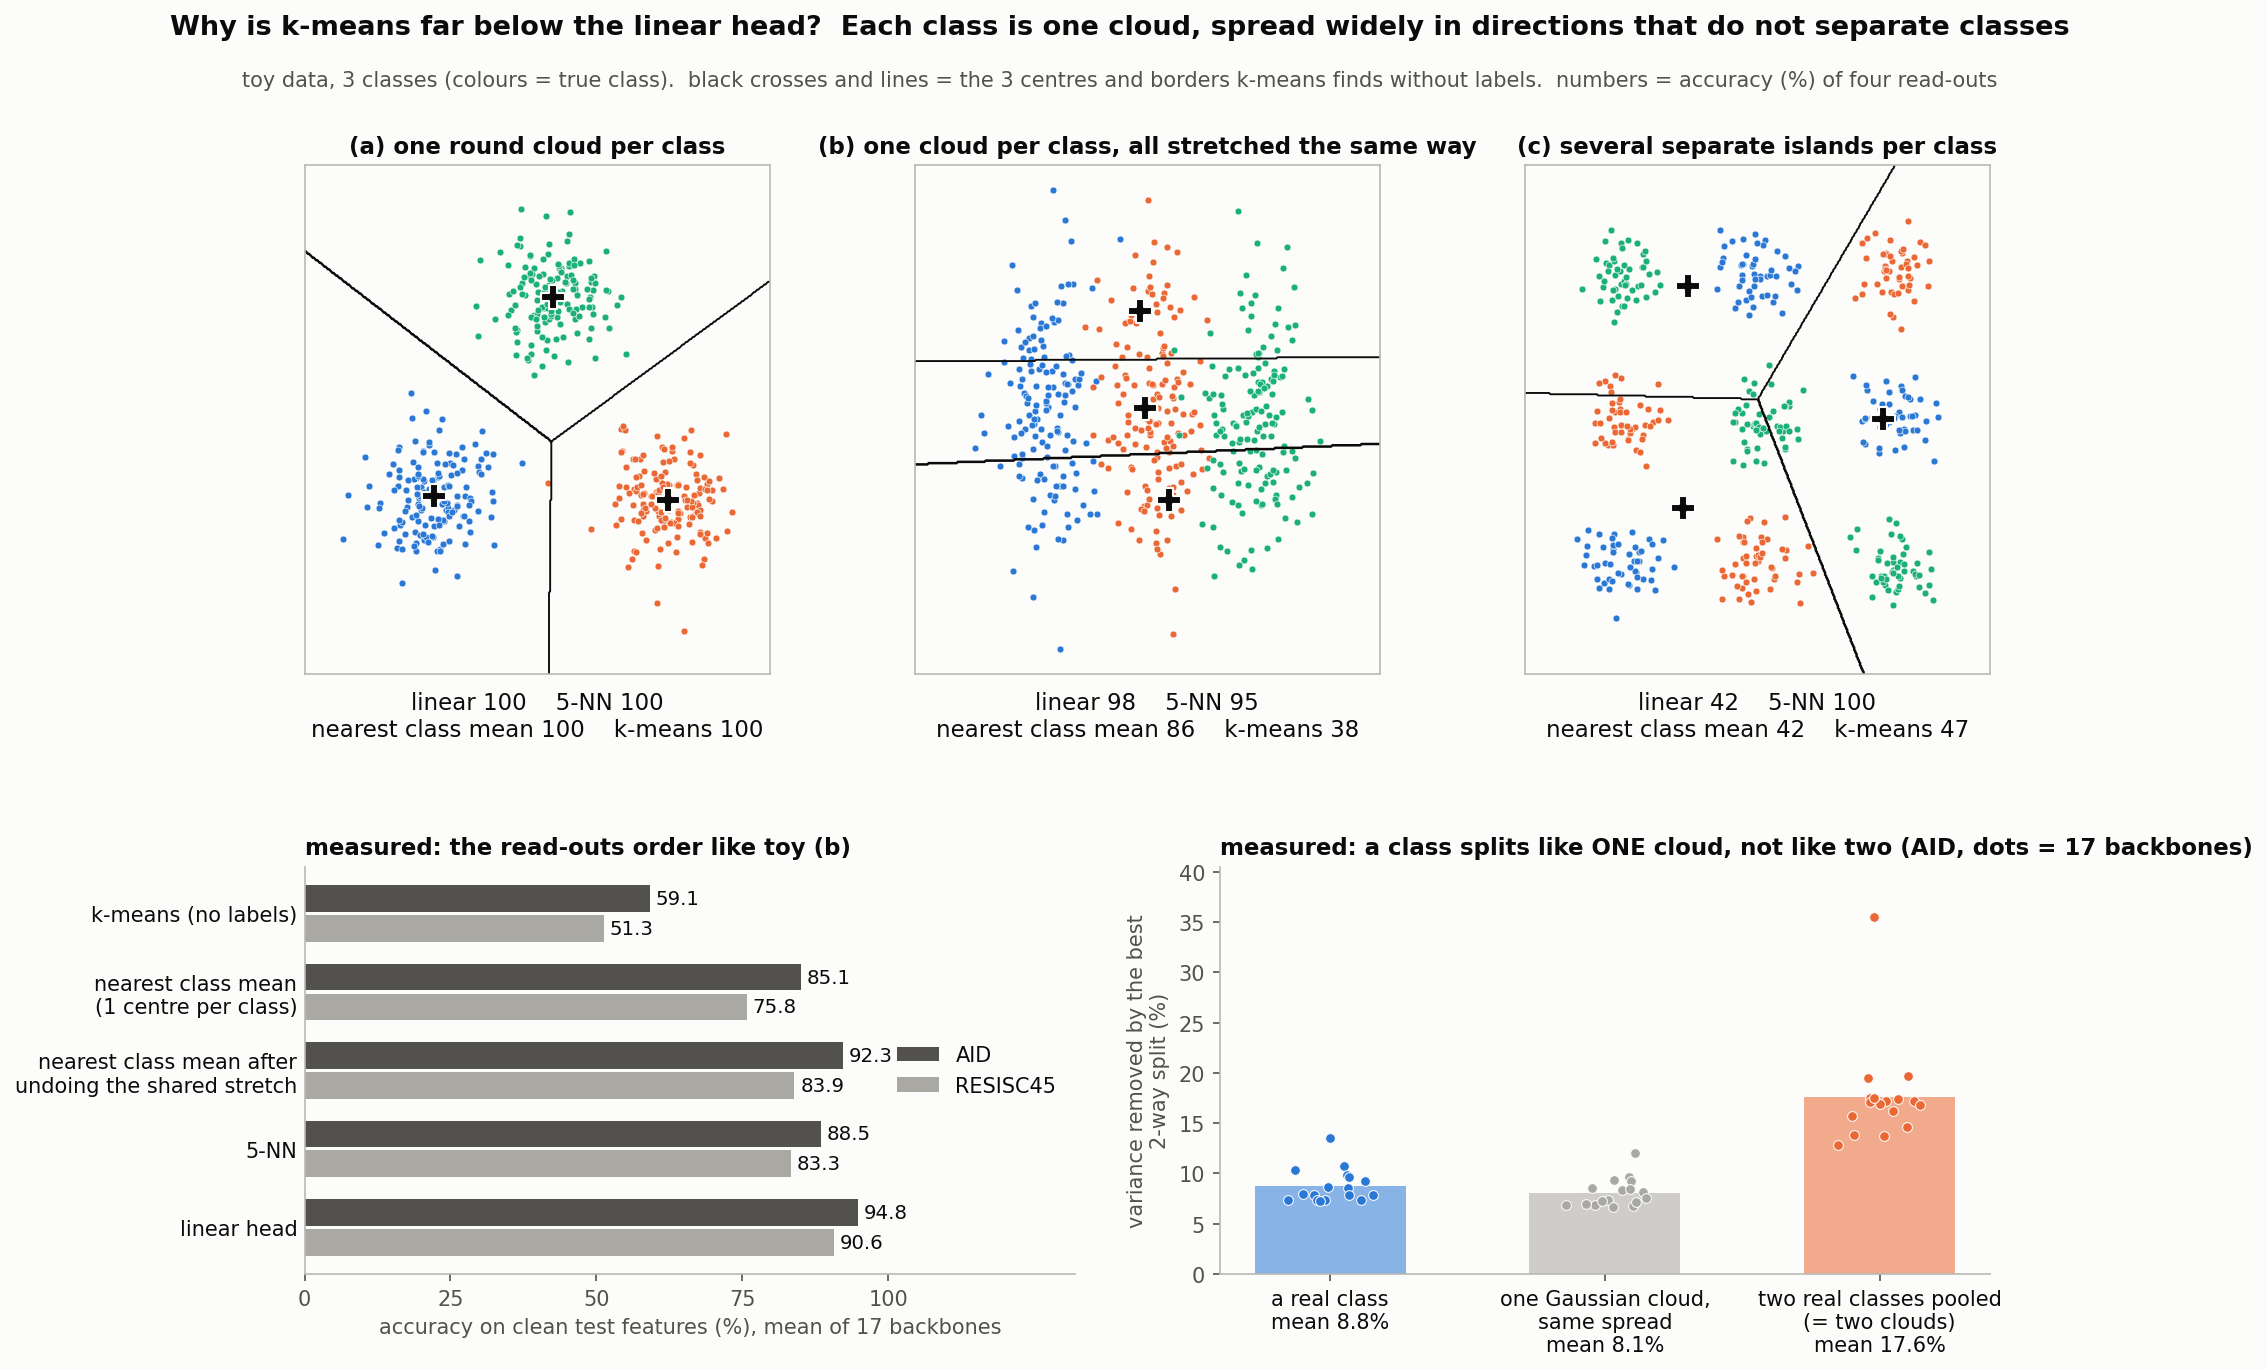
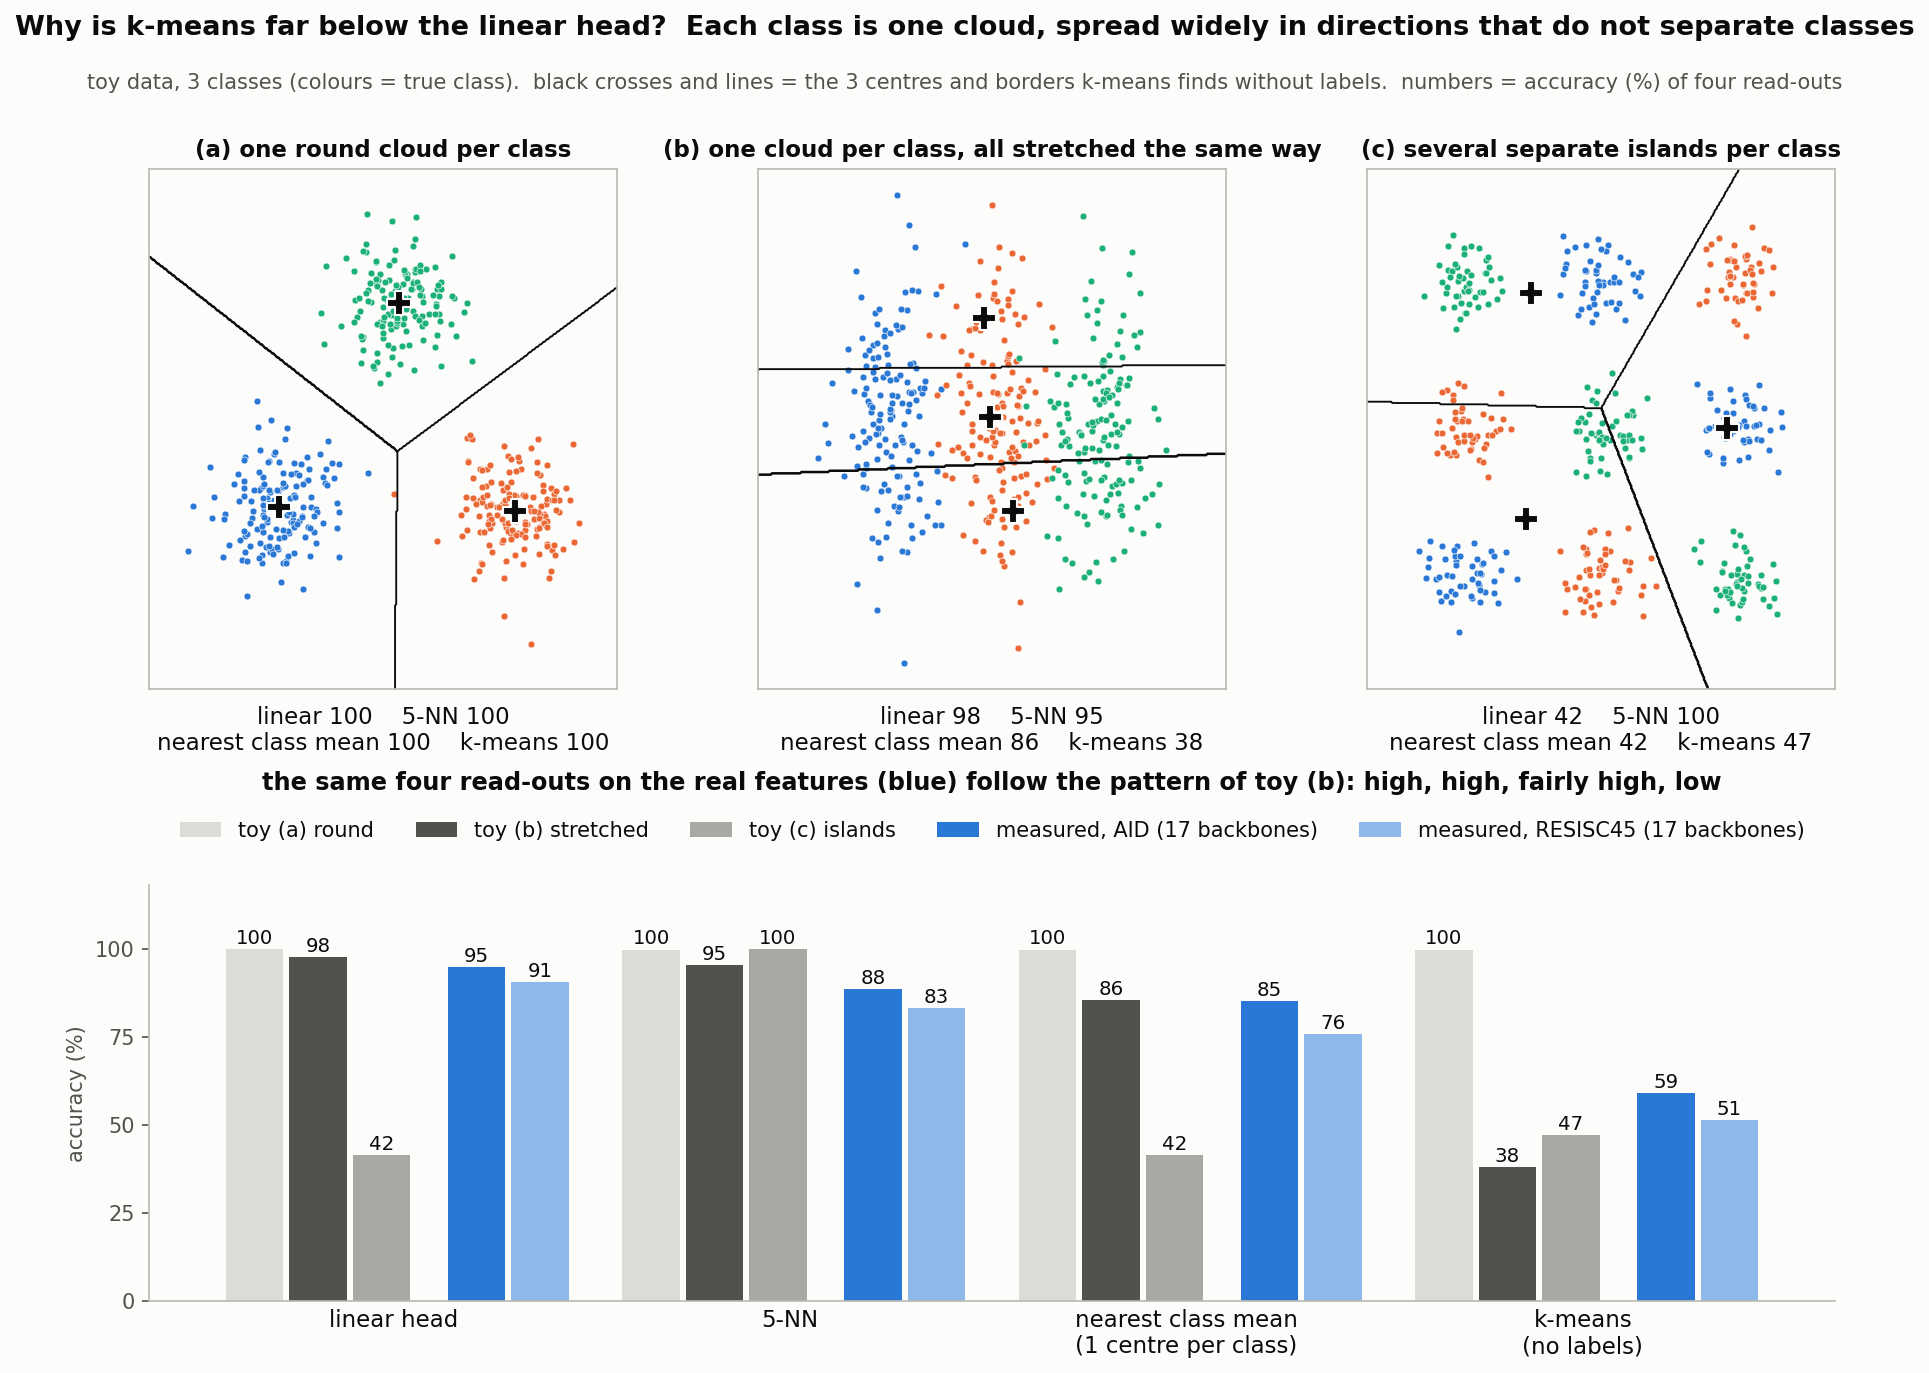
Class-shape figure: one comparison chart on the slide figure, two tests moved to a backup figure

diff --git a/repro/scripts/analysis/plot_feature_dist.py b/repro/scripts/analysis/plot_feature_dist.py
@@ -153,7 +153,8 @@ def _toy_km(x, k, rng, n=10):
 
 
 def class_shape():
-    """Toy pictures of three class shapes with the four read-outs, and the measured numbers (cluster_shape.py, shape.json)."""
+    """fig3: toy pictures of three class shapes with four read-outs, and the same four read-outs measured on the real features.
+    fig3b (backup): two further measurements from cluster_shape.py (shape.json)."""
     import json
     from cluster_cot import OUT as EXP
     R = json.load(open(EXP / "shape.json"))
@@ -164,16 +165,17 @@ def class_shape():
     m = np.array([[-3.0, -1.5], [3.0, -1.5], [0.0, 3.2]])
     toys.append(("(a) one round cloud per class", np.concatenate([mu + rng.normal(size=(n, 2)) * 0.8 for mu in m])))
     m = np.array([[-1.7, 0.0], [0.0, 0.0], [1.7, 0.0]])
-    toys.append(("(b) one cloud per class, all stretched the same way",
-                 np.concatenate([mu + rng.normal(size=(n, 2)) * [0.42, 3.0] for mu in m])))
+    toys.append(("(b) one cloud per class, all stretched the same way", np.concatenate([mu + rng.normal(size=(n, 2)) * [0.42, 3.0] for mu in m])))
     isl = [[(i, j) for i in range(3) for j in range(3) if (i + j) % 3 == k] for k in range(3)]
     toys.append(("(c) several separate islands per class",
                  np.concatenate([np.concatenate([np.array(q) * 2.6 - 2.6 + rng.normal(size=(n // 3, 2)) * 0.38 for q in isl[k]]) for k in range(3)])))
     y = np.repeat(np.arange(3), n)
-    fig = plt.figure(figsize=(14.5, 9.6))
-    gs = fig.add_gridspec(2, 6, height_ratios=[1.25, 1], hspace=0.42, wspace=0.9)
+    READ = (("linear head", "lin"), ("5-NN", "knn"), ("nearest class mean\n(1 centre per class)", "ncm"), ("k-means\n(no labels)", "km"))
+    fig = plt.figure(figsize=(14.5, 9.8))
+    gs = fig.add_gridspec(2, 3, height_ratios=[1.25, 1], hspace=0.42, wspace=0.3)
+    toy_acc = []
     for c, (title, x) in enumerate(toys):
-        ax = fig.add_subplot(gs[0, 2 * c:2 * c + 2])
+        ax = fig.add_subplot(gs[0, c])
         lab, cen, _ = _toy_km(x, 3, rng)
         cont = np.array([[((lab == a) & (y == b)).sum() for b in range(3)] for a in range(3)])
         i, j = lsa(-cont)
@@ -189,6 +191,7 @@ def class_shape():
         d = ((x[:, None] - x[None]) ** 2).sum(-1); np.fill_diagonal(d, np.inf)
         nb = y[np.argsort(d, 1)[:, :5]]
         knn = 100 * (np.array([np.bincount(r, minlength=3).argmax() for r in nb]) == y).mean()
+        toy_acc.append({"lin": lin, "knn": knn, "ncm": ncm, "km": km})
         lo, hi = x.min(0) - 1.0, x.max(0) + 1.0
         gx, gy = np.meshgrid(np.linspace(lo[0], hi[0], 400), np.linspace(lo[1], hi[1], 400))
         G = np.c_[gx.ravel(), gy.ravel()]
@@ -202,41 +205,58 @@ def class_shape():
         ax.set_xlabel(f"linear {lin:.0f}    5-NN {knn:.0f}\nnearest class mean {ncm:.0f}    k-means {km:.0f}", fontsize=11, color=INK, labelpad=8)
     fig.text(0.5, 0.935, "toy data, 3 classes (colours = true class).  black crosses and lines = the 3 centres and borders k-means finds without labels.  "
              "numbers = accuracy (%) of four read-outs", ha="center", fontsize=10, color=INK2)
-    # measured numbers
-    rows = (("k-means (no labels)", "km"), ("nearest class mean\n(1 centre per class)", "ncm"),
-            ("nearest class mean after\nundoing the shared stretch", "ncm_white"), ("5-NN", "knn"), ("linear head", "lin"))
-    ax = fig.add_subplot(gs[1, 0:3])
-    DS = (("aid", "AID", "#52514e"), ("r45", "RESISC45", "#a9a8a2"))
-    yy = np.arange(len(rows))[::-1]
-    for di, (ds, name, col) in enumerate(DS):
-        v = [np.mean([r[k] for key, r in R.items() if key.endswith("_" + ds)]) for _, k in rows]
-        ax.barh(yy + (0.19 if di == 0 else -0.19), v, height=0.34, color=col, label=name)
-        for a, b in zip(yy, v):
-            ax.text(b + 1, a + (0.19 if di == 0 else -0.19), f"{b:.1f}", va="center", fontsize=9.5, color=INK)
-    ax.set_yticks(yy); ax.set_yticklabels([r[0] for r in rows], fontsize=10, color=INK); ax.set_xlim(0, 132); ax.set_xticks([0, 25, 50, 75, 100])
-    ax.spines[["top", "right"]].set_visible(False); ax.tick_params(axis="y", length=0)
-    ax.set_xlabel("accuracy on clean test features (%), mean of 17 backbones")
-    ax.set_title("measured: the read-outs order like toy (b)", fontsize=11, color=INK, fontweight="bold", loc="left")
-    ax.legend(loc="center right", fontsize=10)
-    ax = fig.add_subplot(gs[1, 3:6])
-    bars = (("a real class", "split2", "#2a78d6"), ("one Gaussian cloud,\nsame spread", "null", "#a9a8a2"),
-            ("two real classes pooled\n(= two clouds)", "pair2", "#eb6834"))
-    keys = [k for k in R if k.endswith("_aid")]
-    means = []
-    for bi, (name, k, col) in enumerate(bars):
-        v = np.array([100 * R[key][k] for key in keys])
-        ax.bar(bi, v.mean(), width=0.55, color=col, alpha=0.55)
-        ax.scatter(bi + rng.uniform(-0.16, 0.16, len(v)), v, s=22, color=col, edgecolors=SURF, linewidths=0.5, zorder=3)
-        means.append(v.mean())
-    ax.set_xticks(range(3)); ax.set_xticklabels([f"{b[0]}\nmean {m:.1f}%" for b, m in zip(bars, means)], fontsize=10, color=INK)
-    ax.set_ylabel("variance removed by the best\n2-way split (%)"); ax.spines[["top", "right"]].set_visible(False)
-    ax.set_ylim(0, max(100 * R[k]["pair2"] for k in keys) + 5)
-    ax.set_title("measured: a class splits like ONE cloud, not like two (AID, dots = 17 backbones)", fontsize=11, color=INK, fontweight="bold", loc="left")
+    # the same four read-outs: toys vs measured
+    ax = fig.add_subplot(gs[1, :])
+    meas = {ds: {k: np.mean([r[k] for key, r in R.items() if key.endswith("_" + ds)]) for _, k in READ} for ds in ("aid", "r45")}
+    series = [("toy (a) round", toy_acc[0], "#dcdbd6", INK2), ("toy (b) stretched", toy_acc[1], "#52514e", SURF), ("toy (c) islands", toy_acc[2], "#a9a8a2", INK),
+              ("measured, AID (17 backbones)", meas["aid"], "#2a78d6", SURF), ("measured, RESISC45 (17 backbones)", meas["r45"], "#8fb8ea", INK)]
+    w = 0.16
+    for si, (name, v, col, _) in enumerate(series):
+        xs = np.arange(len(READ)) + (si - 2) * w + (0.05 if si >= 3 else -0.03)
+        ax.bar(xs, [v[k] for _, k in READ], width=w - 0.015, color=col, label=name)
+        for a, (_, k) in zip(xs, READ):
+            ax.text(a, v[k] + 1.5, f"{v[k]:.0f}", ha="center", fontsize=9.5, color=INK)
+    ax.set_xticks(np.arange(len(READ))); ax.set_xticklabels([r[0] for r in READ], fontsize=11, color=INK)
+    ax.set_ylim(0, 118); ax.set_yticks([0, 25, 50, 75, 100]); ax.set_ylabel("accuracy (%)")
+    ax.spines[["top", "right"]].set_visible(False); ax.tick_params(axis="x", length=0)
+    ax.legend(loc="upper center", ncol=5, bbox_to_anchor=(0.5, 1.2), fontsize=10)
+    ax.set_title("the same four read-outs on the real features (blue) follow the pattern of toy (b): high, high, fairly high, low", fontsize=11.5,
+                 color=INK, fontweight="bold", y=1.2)
     fig.suptitle("Why is k-means far below the linear head?  Each class is one cloud, spread widely in directions that do not separate classes",
                  fontsize=13, fontweight="bold", y=0.985)
     fig.savefig(OUT / "fig3_class_shape.png", dpi=150, bbox_inches="tight")
     plt.close(fig)
     print("saved", OUT / "fig3_class_shape.png")
+
+    # backup figure: two more measurements
+    fig, (ax, ax2) = plt.subplots(1, 2, figsize=(14.5, 4.6), gridspec_kw={"wspace": 0.3})
+    rows = (("nearest class mean, as is", "ncm"), ("nearest class mean after squashing\nthe spread the classes share", "ncm_white"), ("linear head (reference)", "lin"))
+    yy = np.arange(len(rows))[::-1]
+    for di, (ds, name, col) in enumerate((("aid", "AID", "#52514e"), ("r45", "RESISC45", "#a9a8a2"))):
+        v = [np.mean([r[k] for key, r in R.items() if key.endswith("_" + ds)]) for _, k in rows]
+        ax.barh(yy + (0.19 if di == 0 else -0.19), v, height=0.34, color=col, label=name)
+        for a, b in zip(yy, v):
+            ax.text(b + 1, a + (0.19 if di == 0 else -0.19), f"{b:.1f}", va="center", fontsize=10, color=INK)
+    ax.set_yticks(yy); ax.set_yticklabels([r[0] for r in rows], fontsize=10.5, color=INK); ax.set_xlim(0, 125); ax.set_xticks([0, 25, 50, 75, 100])
+    ax.spines[["top", "right"]].set_visible(False); ax.tick_params(axis="y", length=0); ax.legend(loc="center right", fontsize=10)
+    ax.set_xlabel("accuracy on clean test features (%), mean of 17 backbones")
+    ax.set_title("test 1: squash the shared spread, then one centre per class is almost enough", fontsize=11, color=INK, fontweight="bold", loc="left")
+    bars = (("one real class", "split2", "#2a78d6"), ("reference: ONE cloud\n(Gaussian, same spread)", "null", "#a9a8a2"),
+            ("reference: TWO clouds\n(two real classes pooled)", "pair2", "#eb6834"))
+    keys = [k for k in R if k.endswith("_aid")]
+    means = []
+    for bi, (name, k, col) in enumerate(bars):
+        v = np.array([100 * R[key][k] for key in keys])
+        ax2.bar(bi, v.mean(), width=0.55, color=col, alpha=0.55)
+        ax2.scatter(bi + rng.uniform(-0.16, 0.16, len(v)), v, s=22, color=col, edgecolors=SURF, linewidths=0.5, zorder=3)
+        means.append(v.mean())
+    ax2.set_xticks(range(3)); ax2.set_xticklabels([f"{b[0]}\nmean {m:.1f}%" for b, m in zip(bars, means)], fontsize=10, color=INK)
+    ax2.set_ylabel("how much tighter the points get when\nthe group is cut in two (% of its variance)"); ax2.spines[["top", "right"]].set_visible(False)
+    ax2.set_ylim(0, max(100 * R[k]["pair2"] for k in keys) + 5)
+    ax2.set_title("test 2: cut one class in two. It behaves like ONE cloud (AID, dots = 17 backbones)", fontsize=11, color=INK, fontweight="bold", loc="left")
+    fig.savefig(OUT / "fig3b_class_shape_tests.png", dpi=150, bbox_inches="tight")
+    plt.close(fig)
+    print("saved", OUT / "fig3b_class_shape_tests.png")
 
 
 def legend(fig):

diff --git a/repro/docs/figs/2026-11-24_feature_dist/README.md b/repro/docs/figs/2026-11-24_feature_dist/README.md
@@ -79,21 +79,38 @@ PPT에 넣을 한글 이름 (서버에 한글 글꼴이 없어 그림 안은 영
   선형 head는 그 방향을 무시하고 클래스를 가르는 방향만 본다.
 - (c)라면 선형 head와 클래스 평균이 둘 다 무너지고 k-NN만 산다.
 
-아래 줄은 실제 측정이다.
+아래 줄(2026-11-26 단순하게 다시 그림)은 위 장난감들과 **같은 네 방법**을 실제 feature에 적용한 값(파랑)을 장난감 값(회색)과 나란히 놓은 것이다.
 
-**왼쪽: 네 방법의 순서가 (b)와 같다** (clean test, 17개 백본 평균, AID / RESISC45)
+| 방법 | 장난감 (a) | 장난감 (b) | 장난감 (c) | 실제 AID | 실제 RESISC45 |
+|---|---:|---:|---:|---:|---:|
+| 선형 head | 100 | 98 | 42 | 94.8 | 90.6 |
+| 5-NN | 100 | 95 | 100 | 88.5 | 83.3 |
+| 가장 가까운 클래스 평균 (클래스당 중심 1개, 중심은 train 라벨로 계산) | 100 | 86 | 42 | 85.1 | 75.8 |
+| k-means (라벨 없음) | 100 | 38 | 47 | 59.1 | 51.3 |
 
-| 방법 | AID | RESISC45 | 뜻 |
-|---|---:|---:|---|
-| k-means (라벨 없음) | 59.1 | 51.3 | |
-| 가장 가까운 클래스 평균 (클래스당 중심 1개, 중심은 train 라벨로 계산) | 85.1 | 75.8 | 중심 하나로도 대부분 맞는다 = 클래스마다 덩어리는 하나 |
-| 같은 방법, 모든 클래스에 공통인 퍼진 모양을 편 뒤 (클래스 내 공분산으로 whitening, LDA와 같은 모형) | 92.3 | 83.9 | 공통으로 퍼진 모양만 펴 주면 선형 head에 가깝다 |
-| 5-NN | 88.5 | 83.3 | |
-| 선형 head | 94.8 | 90.6 | |
+- 실제 값의 모양은 (b)와 같다: 높음, 높음, 꽤 높음, 낮음.
+- (c)가 아니라는 근거: 섬 여러 개라면 선형 head와 클래스 평균이 둘 다 무너져야 하는데(42) 실제로는 95와 85다.
+- (a)가 아니라는 근거: 둥근 덩어리라면 k-means도 100이어야 하는데 59다.
 
-**오른쪽: 클래스 하나를 둘로 쪼개 봐도 덩어리 하나처럼 쪼개진다** (AID, 점 = 백본 17개)
-- 재는 것: 한 클래스의 점들을 가장 잘 둘로 나눴을 때(2-means) 그 클래스의 분산이 몇 % 줄어드나. 떨어진 덩어리 둘이면 크게 줄고, 덩어리 하나면 조금 줄어든다.
-- 실제 클래스 8.8%, 같은 퍼짐을 가진 Gaussian 덩어리 하나 8.1%, 실제 클래스 둘을 합친 것(덩어리 둘의 기준) 17.6%. 실제 클래스는 덩어리 하나 쪽이다.
+### fig3b_class_shape_tests.png: 확인 측정 두 가지 (예비 장)
+
+**test 1 (왼쪽): 퍼진 모양을 눌러 펴면 중심 하나로 거의 충분하다**
+- "클래스 내 공분산으로 whitening"을 쉬운 말로: (b)에서 세 클래스는 모두 세로로 길게 퍼져 있다. 세로축을 눌러서 덩어리를 둥글게 만들면 (b)가 (a)처럼 된다.
+  어느 방향으로 얼마나 눌러야 하는지는 "점들이 자기 클래스 중심에서 그 방향으로 얼마나 흩어져 있나"를 모든 클래스에서 모아 계산한다(= 클래스 내 공분산).
+  각 방향을 그 흩어짐의 크기로 나누는 것이 whitening이다. head 입력 표준화(채널마다 표준편차로 나눔)를 채널 사이의 상관까지 포함해 모든 방향으로 한 것이다.
+- 무엇을 확인하나: 클래스가 "덩어리 하나 + 클래스들에 공통인 퍼진 모양"이라면, 눌러 편 뒤에는 클래스 평균 분류가 선형 head만큼 좋아져야 한다.
+  섬 여러 개라면 눌러도 섬은 그대로라 좋아지지 않는다.
+- 결과: 85.1 → 92.3 (AID), 75.8 → 83.9 (RESISC45). 선형 head는 94.8 / 90.6. 대부분 따라잡는다.
+- 이 계산은 라벨을 쓴다(클래스 중심과 흩어짐을 라벨로 구함). 방법이 아니라 모양을 확인하는 진단이다. 통계학에서는 LDA(선형 판별 분석)와 같은 모형이다.
+
+**test 2 (오른쪽): 클래스 하나를 둘로 잘라 본다**
+- 재는 법: 한 클래스의 점만 모아, 가장 잘 나뉘도록 두 묶음으로 자른다(2-means). 자르기 전과 후에 "점들이 자기 묶음 중심에서 흩어진 정도(분산)"가 몇 % 줄었는지 본다.
+- 왜 이것이 덩어리 수를 알려 주나: 떨어진 섬 둘로 된 집단은 섬 사이를 자르면 각 묶음이 훨씬 촘촘해져서 분산이 크게 준다.
+  이어진 덩어리 하나는 어디를 잘라도 덩어리를 반으로 가를 뿐이라 조금만 준다.
+- "조금"과 "크게"의 기준을 두 개 만들었다.
+  - 덩어리 **하나**의 기준: 그 클래스와 퍼짐이 똑같은 Gaussian 점들을 새로 뽑아 같은 방법으로 자른다. 만들 때부터 덩어리 하나다. → 8.1%
+  - 덩어리 **둘**의 기준: 서로 다른 실제 클래스 둘을 합쳐 한 클래스인 척하고 자른다. 만들 때부터 덩어리 둘이다. → 17.6%
+- 결과: 실제 클래스는 8.8%로 "하나" 기준(8.1%) 옆에 있고 "둘" 기준(17.6%)과 멀다. 17개 백본 모두 그렇다(점). RESISC45는 9.6 / 8.6 / 18.0%.
 - Gaussian 기준보다 뚜렷이 큰(+3pt 초과) 클래스의 비율은 AID 1%, RESISC45 6%다. 예외는 dinov3_web(AID 10%, RESISC45 22%)이다.
 
 같은 표의 나머지 수치.
@@ -114,10 +131,10 @@ PPT용 한글 캡션 (fig3):
 | (b) one cloud per class, all stretched the same way | (b) 클래스마다 덩어리 하나, 모두 같은 방향으로 퍼짐 |
 | (c) several separate islands per class | (c) 클래스마다 떨어진 섬 여러 개 |
 | nearest class mean | 가장 가까운 클래스 평균 (클래스당 중심 1개) |
-| nearest class mean after undoing the shared stretch | 공통으로 퍼진 모양을 편 뒤의 클래스 평균 분류 |
-| variance removed by the best 2-way split | 가장 잘 둘로 나눴을 때 줄어드는 분산 |
-| one Gaussian cloud, same spread | 같은 퍼짐의 Gaussian 덩어리 하나 |
-| two real classes pooled | 실제 클래스 둘을 합친 것 (덩어리 둘) |
+| nearest class mean after squashing the spread the classes share (fig3b) | 클래스들에 공통인 퍼짐을 눌러 편 뒤의 클래스 평균 분류 |
+| how much tighter the points get when the group is cut in two (fig3b) | 집단을 둘로 잘랐을 때 줄어드는 분산 |
+| reference: ONE cloud (Gaussian, same spread) | 기준: 덩어리 하나 (같은 퍼짐의 Gaussian) |
+| reference: TWO clouds (two real classes pooled) | 기준: 덩어리 둘 (실제 클래스 둘을 합친 것) |
 
 ## fig2_shift_align_motion_blur_s3.png: 손상이 feature를 어떻게 옮기고, head 입력 표준화가 무엇을 되돌리나
 
